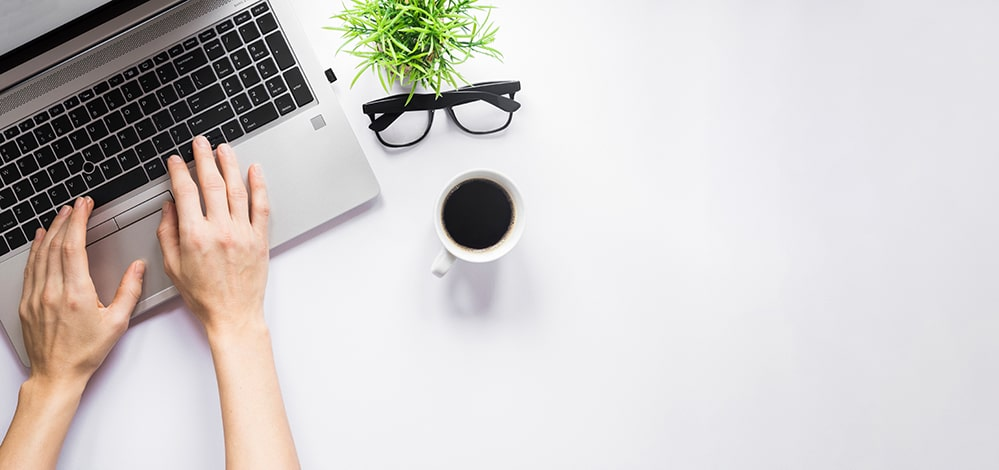
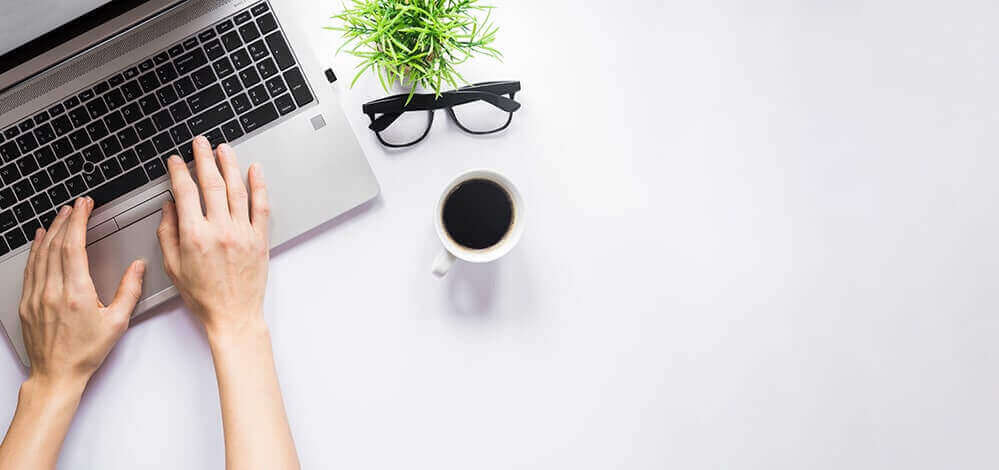
compression

Changed region(s): [[0.3413, 0.0, 0.4965, 0.1787], [0.2482, 0.1191, 0.2793, 0.1489], [0.0621, 0.417, 0.0931, 0.4468]]

diff --git a/style.css b/style.css
@@ -2554,7 +2554,7 @@ input.valid {
     background-image: url(img/hero_1-min.jpg);
   }
   #hero_architects {
-    background-image: url(img/hero_arch.png);
+    background-image: url(img/hero_arch-min.png);
   }
   #hero_platform {
     background-image: url(img/hero_platform-min.png);
